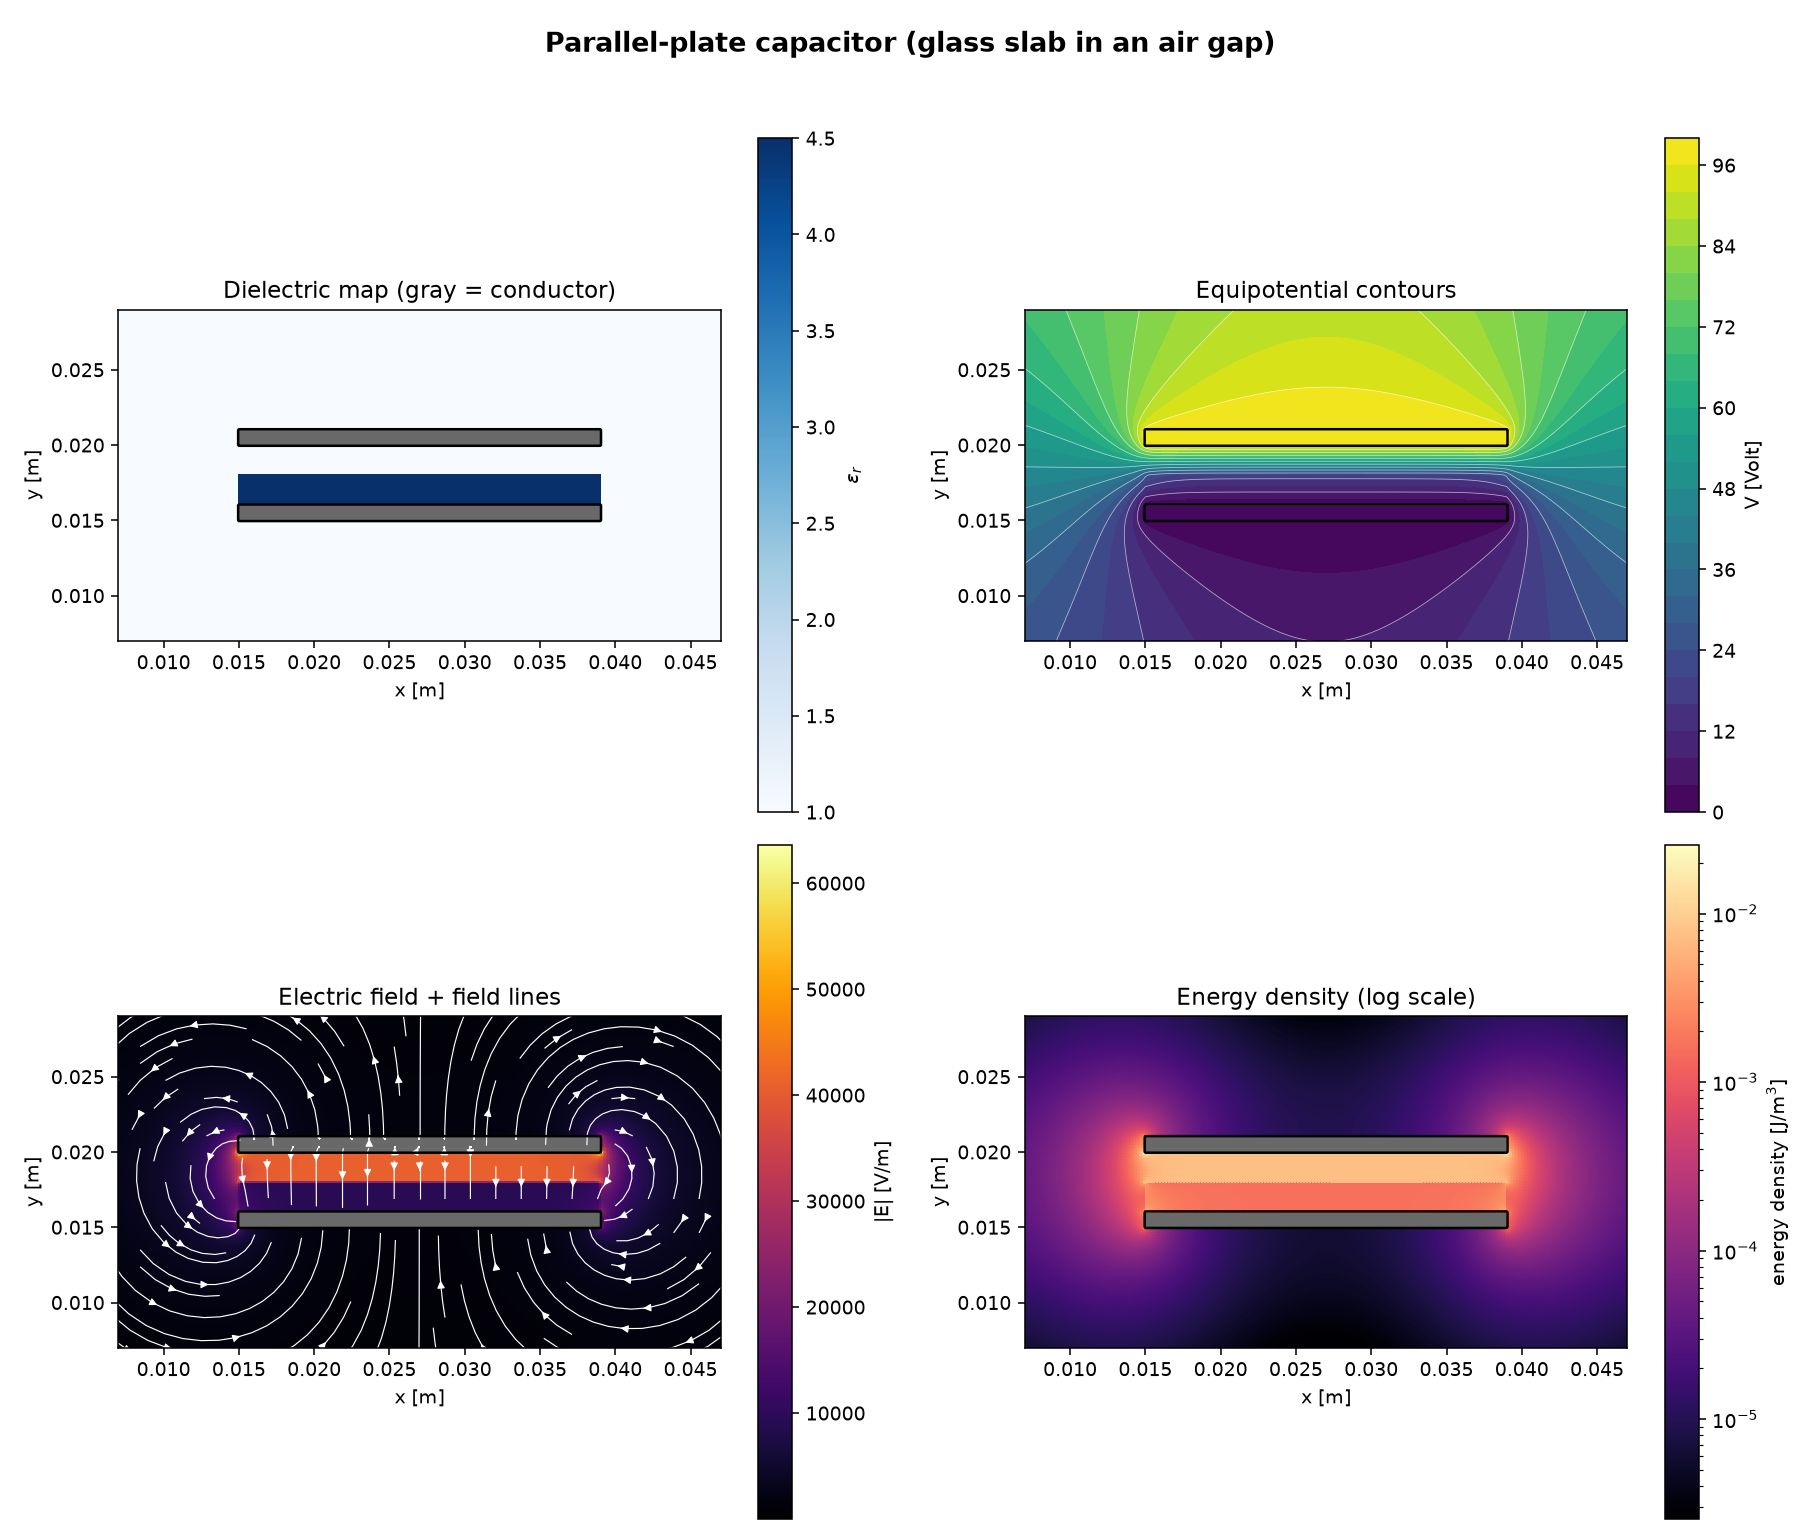
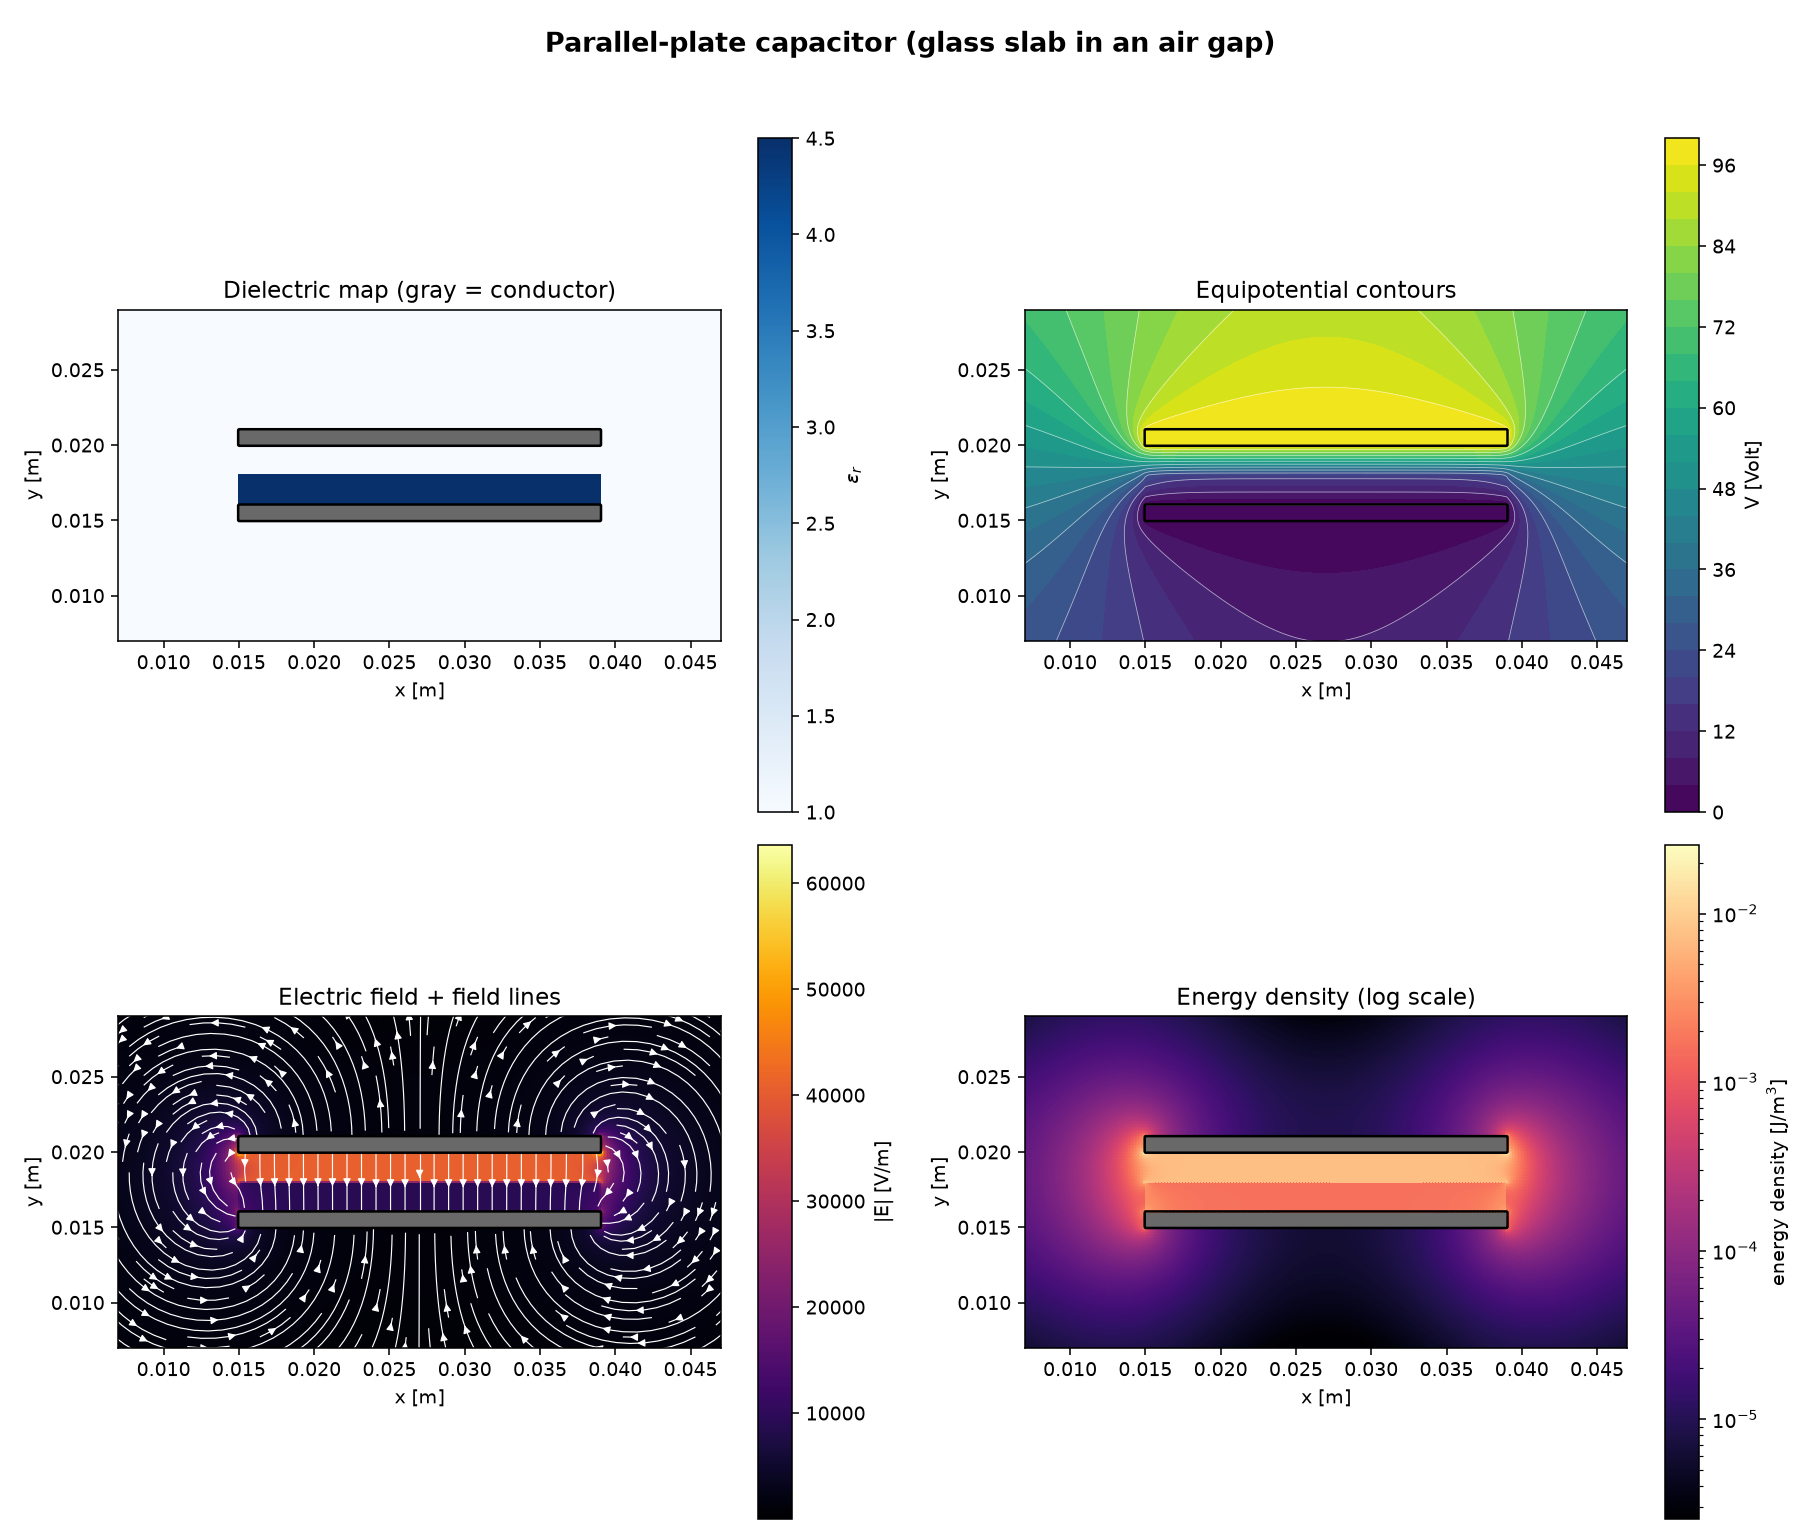
modified:   capacitor_fem.py modified:   example1_parallel_plate.png modified:   example2_coax.png

Changed region(s): [[0.0615, 0.6545, 0.4, 0.8727]]

diff --git a/capacitor_fem.py b/capacitor_fem.py
@@ -180,7 +180,7 @@ class PlotConfig:
     dpi: int = 140
     potential_fill_levels: int = 25
     potential_line_levels: int = 15
-    streamline_density: float = 1.1
+    streamline_density: float = 1.9
     # log-scale color vmin, as a fraction of vmax
     energy_density_floor: float = 1e-4
     conductor_fill_color: str = "dimgray"
@@ -894,12 +894,23 @@ def plot_solution(mesh, V, eps_r_of_xy, energy_density, conductors, is_fixed,
     outline(ax)
     ax.set_title("Equipotential contours")
 
-    # --- panel 3: field magnitude + streamlines -----------------------------
+        # --- panel 3: field magnitude + streamlines -----------------------------
     ax = axes[1, 0]
     pcm = ax.pcolormesh(X, Y, EmagG_masked, shading="auto", cmap=cmap_inferno)
     fig.colorbar(pcm, ax=ax, label="|E| [V/m]")
-    ax.streamplot(xs, ys, ExG, EyG, color="white",
-                  density=style.streamline_density, linewidth=0.6, arrowsize=0.8, minlength=0.01)
+
+    # Zero the nodal field inside conductors so streamlines terminate
+    # cleanly at the electrode surface instead of integrating a few cells
+    # into the metal (np.gradient produces small residuals on the
+    # Dirichlet nodes).  EmagG_masked is already masked for the colour
+    # plot; the vector field itself must be zeroed for streamplot.
+    ExG_plot = np.where(cond_grid, 0.0, ExG)
+    EyG_plot = np.where(cond_grid, 0.0, EyG)
+
+    ax.streamplot(xs, ys, ExG_plot, EyG_plot,
+                  color="white",
+                  density=style.streamline_density,
+                  linewidth=0.6, arrowsize=0.8, minlength=0.01)
     outline(ax)
     ax.set_title("Electric field + field lines")
 
